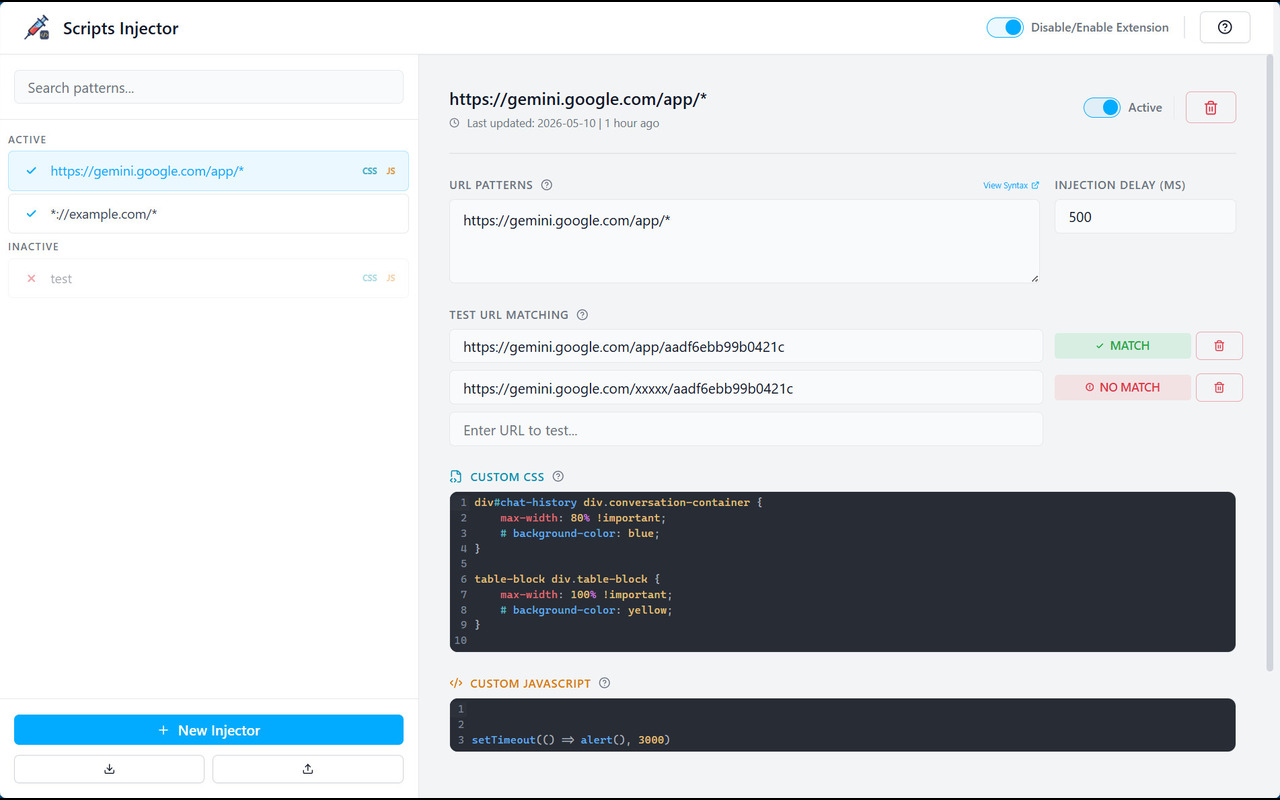
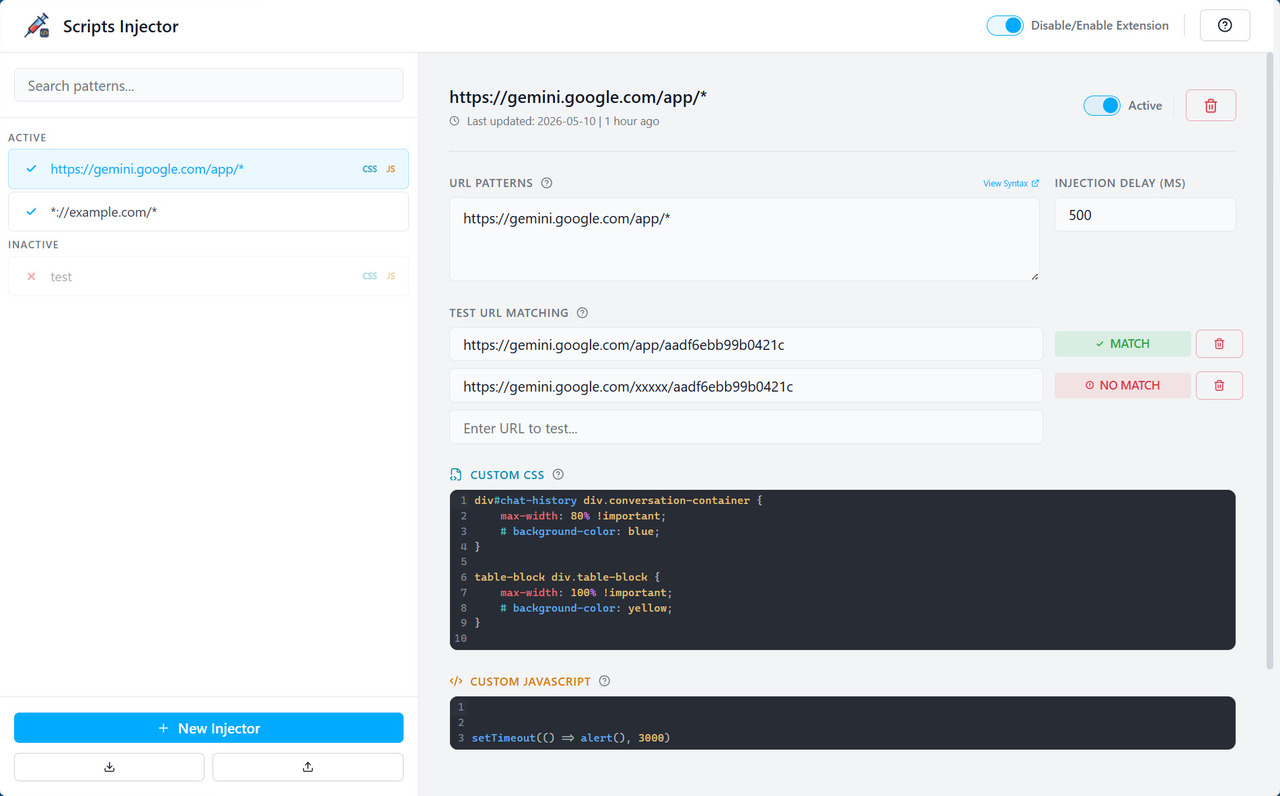
docs: add privacy policy and update store screenshot

diff --git a/PRIVACY_POLICY.md b/PRIVACY_POLICY.md
@@ -1,0 +1,104 @@
+# Privacy Policy — Scripts Injector
+
+**Extension Name:** Scripts Injector  
+**Author:** krittanon-w  
+**Last Updated:** May 10, 2026  
+
+---
+
+## Overview
+
+Scripts Injector is a browser extension that allows users to inject custom CSS and JavaScript into any website based on user-defined URL pattern rules. This policy describes how the extension collects, uses, and shares any data related to its use.
+
+---
+
+## 1. Data Collection
+
+Scripts Injector **does not collect any personal data**.
+
+The extension only stores data that is **explicitly created by the user**, specifically:
+
+- URL pattern rules (e.g., `https://example.com/*`)
+- Custom CSS snippets associated with each rule
+- Custom JavaScript snippets associated with each rule
+- Rule metadata (e.g., rule name, enabled/disabled state)
+
+No browsing history, page content, personally identifiable information (PII), or any other form of user data is collected, read, or recorded by this extension.
+
+---
+
+## 2. Data Storage
+
+All user-created data (rules, scripts, settings) is stored **exclusively on the user's local device** using the browser's built-in `chrome.storage.local` API.
+
+- Data **never leaves the user's device**.
+- Data is **not transmitted** to any external server, cloud service, or third party.
+- Data is **not synced** across devices (i.e., `chrome.storage.sync` is not used).
+
+---
+
+## 3. Data Usage
+
+The stored data (URL patterns, CSS, and JS snippets) is used solely for the following purpose:
+
+> To inject the user's custom CSS and JavaScript into web pages whose URLs match the user-configured patterns, using `chrome.scripting.insertCSS` and `chrome.scripting.executeScript`.
+
+The extension uses the `tabs` permission to detect page navigation events and determine whether the active page URL matches any user-configured rule. **The extension does not read, store, or transmit the content of any web page.**
+
+---
+
+## 4. Data Sharing
+
+Scripts Injector **does not share any data with any third parties**.
+
+- No analytics platforms
+- No advertising networks
+- No cloud or remote services
+- No external APIs
+
+All operations are performed entirely **locally within the user's browser**.
+
+---
+
+## 5. Remote Code Execution
+
+Scripts Injector **does not load or execute any remote code**.
+
+All JavaScript and CSS that is injected into web pages is:
+
+- Written directly by the user inside the extension's options page
+- Stored locally in `chrome.storage.local`
+- Injected at runtime from local storage only
+
+No scripts are fetched from external URLs or third-party servers.
+
+---
+
+## 6. Permissions Used
+
+| Permission | Purpose |
+|---|---|
+| `storage` | Save and retrieve user-defined injection rules locally on the device |
+| `scripting` | Inject user-defined CSS and JS into matching web pages |
+| `tabs` | Detect page navigation to trigger injection rules based on the tab's URL |
+| `host_permissions` (`<all_urls>`) | Required to inject scripts into any URL that the user configures as a target |
+
+---
+
+## 7. Children's Privacy
+
+This extension is not directed at children under the age of 13 and does not knowingly collect any information from children.
+
+---
+
+## 8. Changes to This Policy
+
+If this privacy policy is updated, the new version will be published in this repository with an updated **Last Updated** date. Continued use of the extension after any changes constitutes acceptance of the updated policy.
+
+---
+
+## 9. Contact
+
+If you have any questions or concerns about this privacy policy, please open an issue at:
+
+**https://github.com/krittanon-w/kw-browser-extension-scripts-injector/issues**